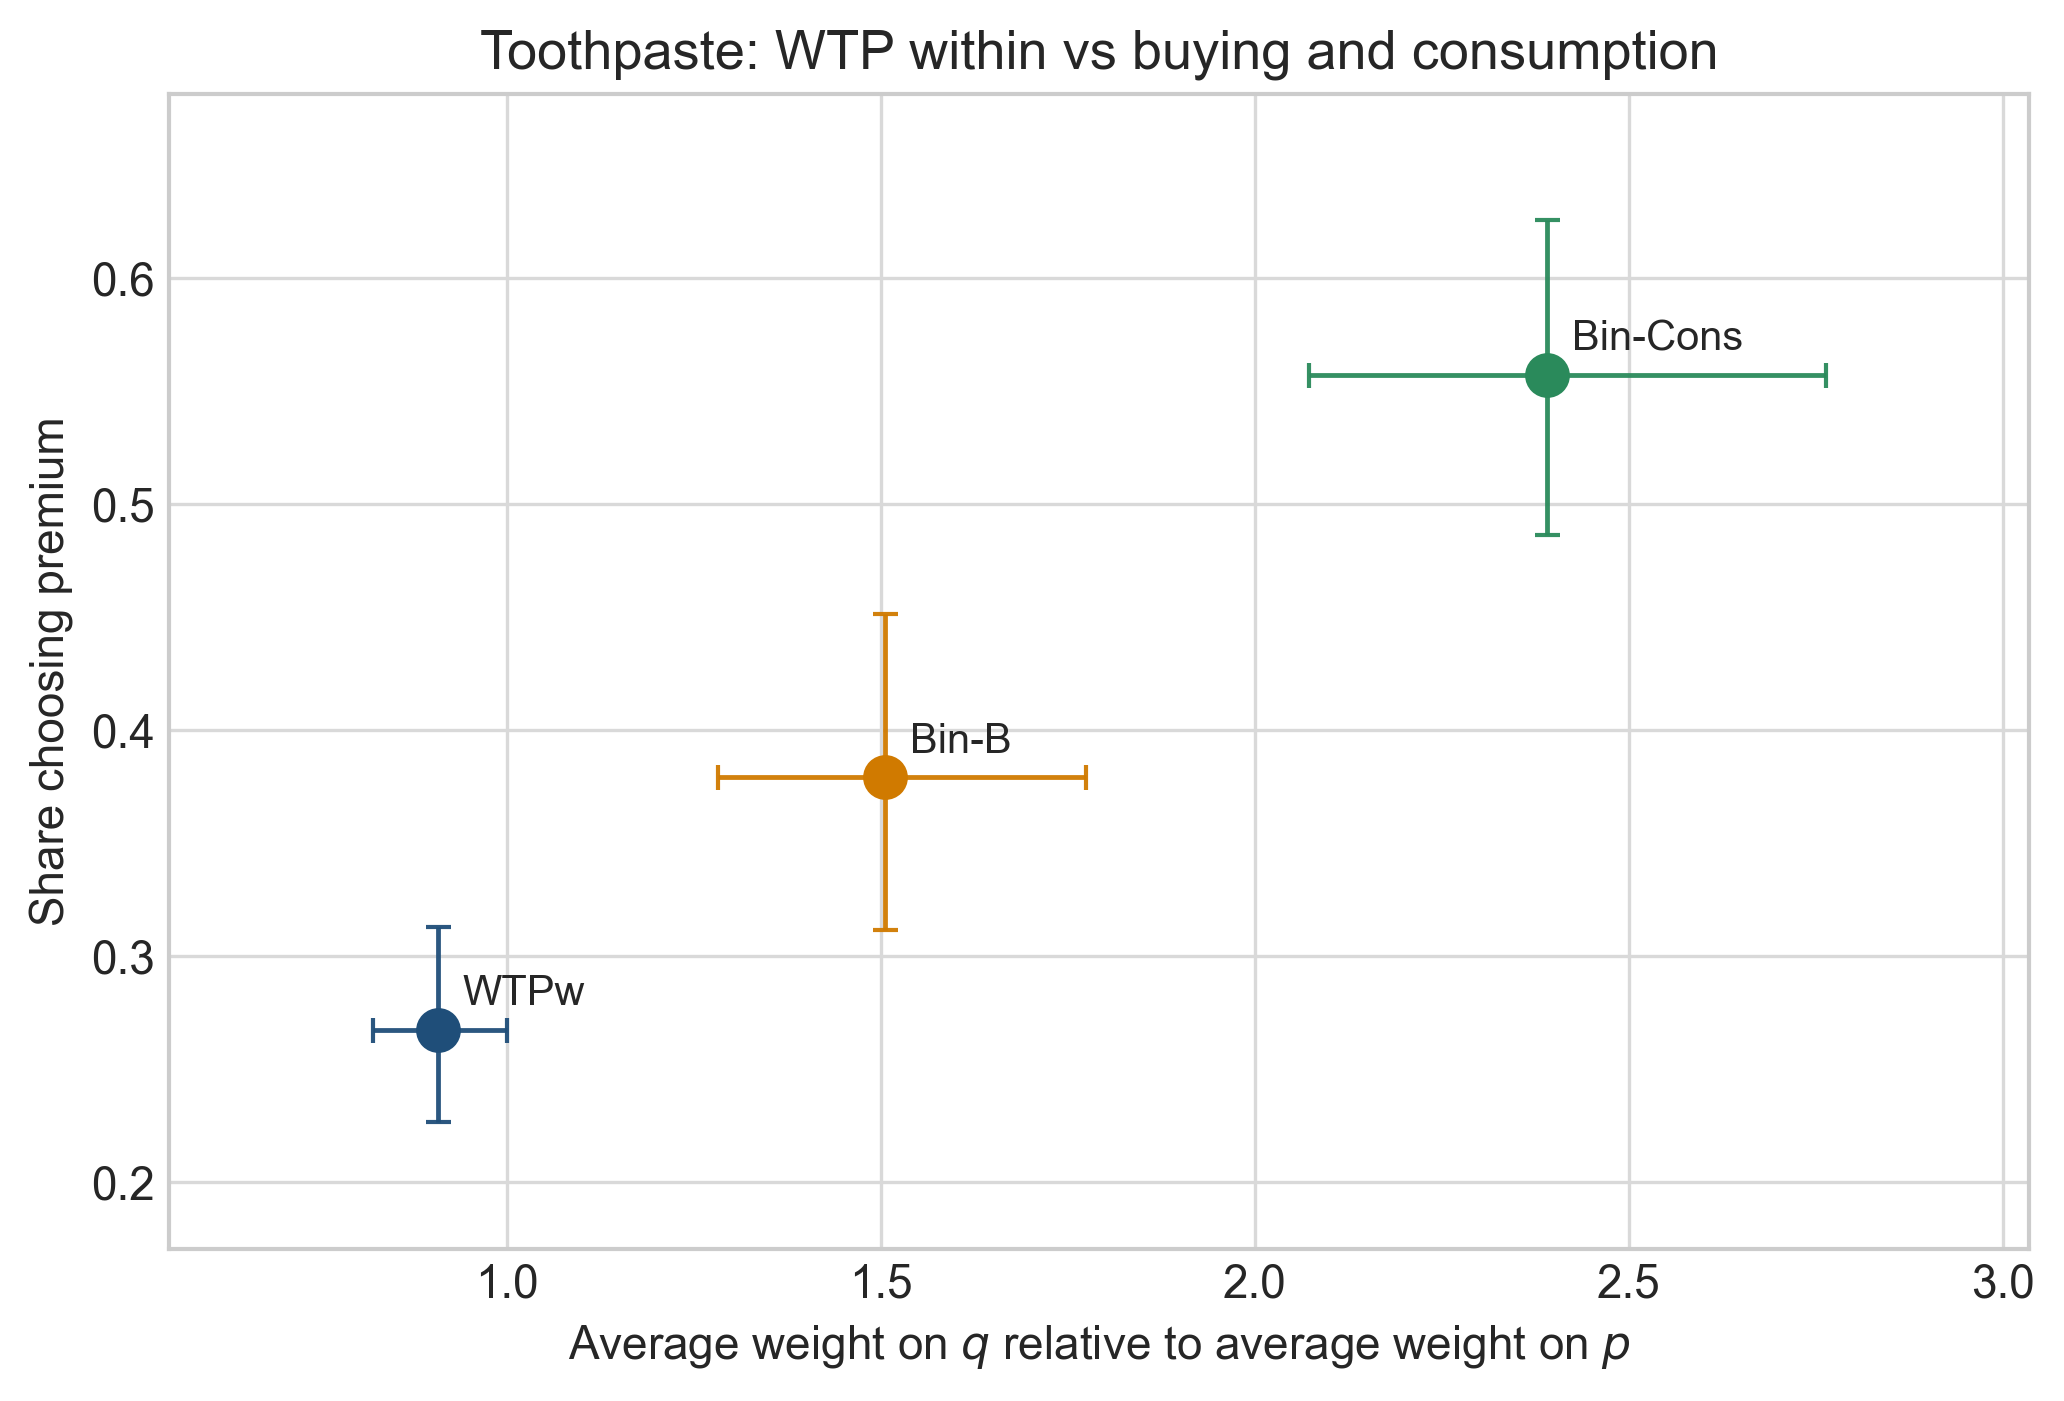
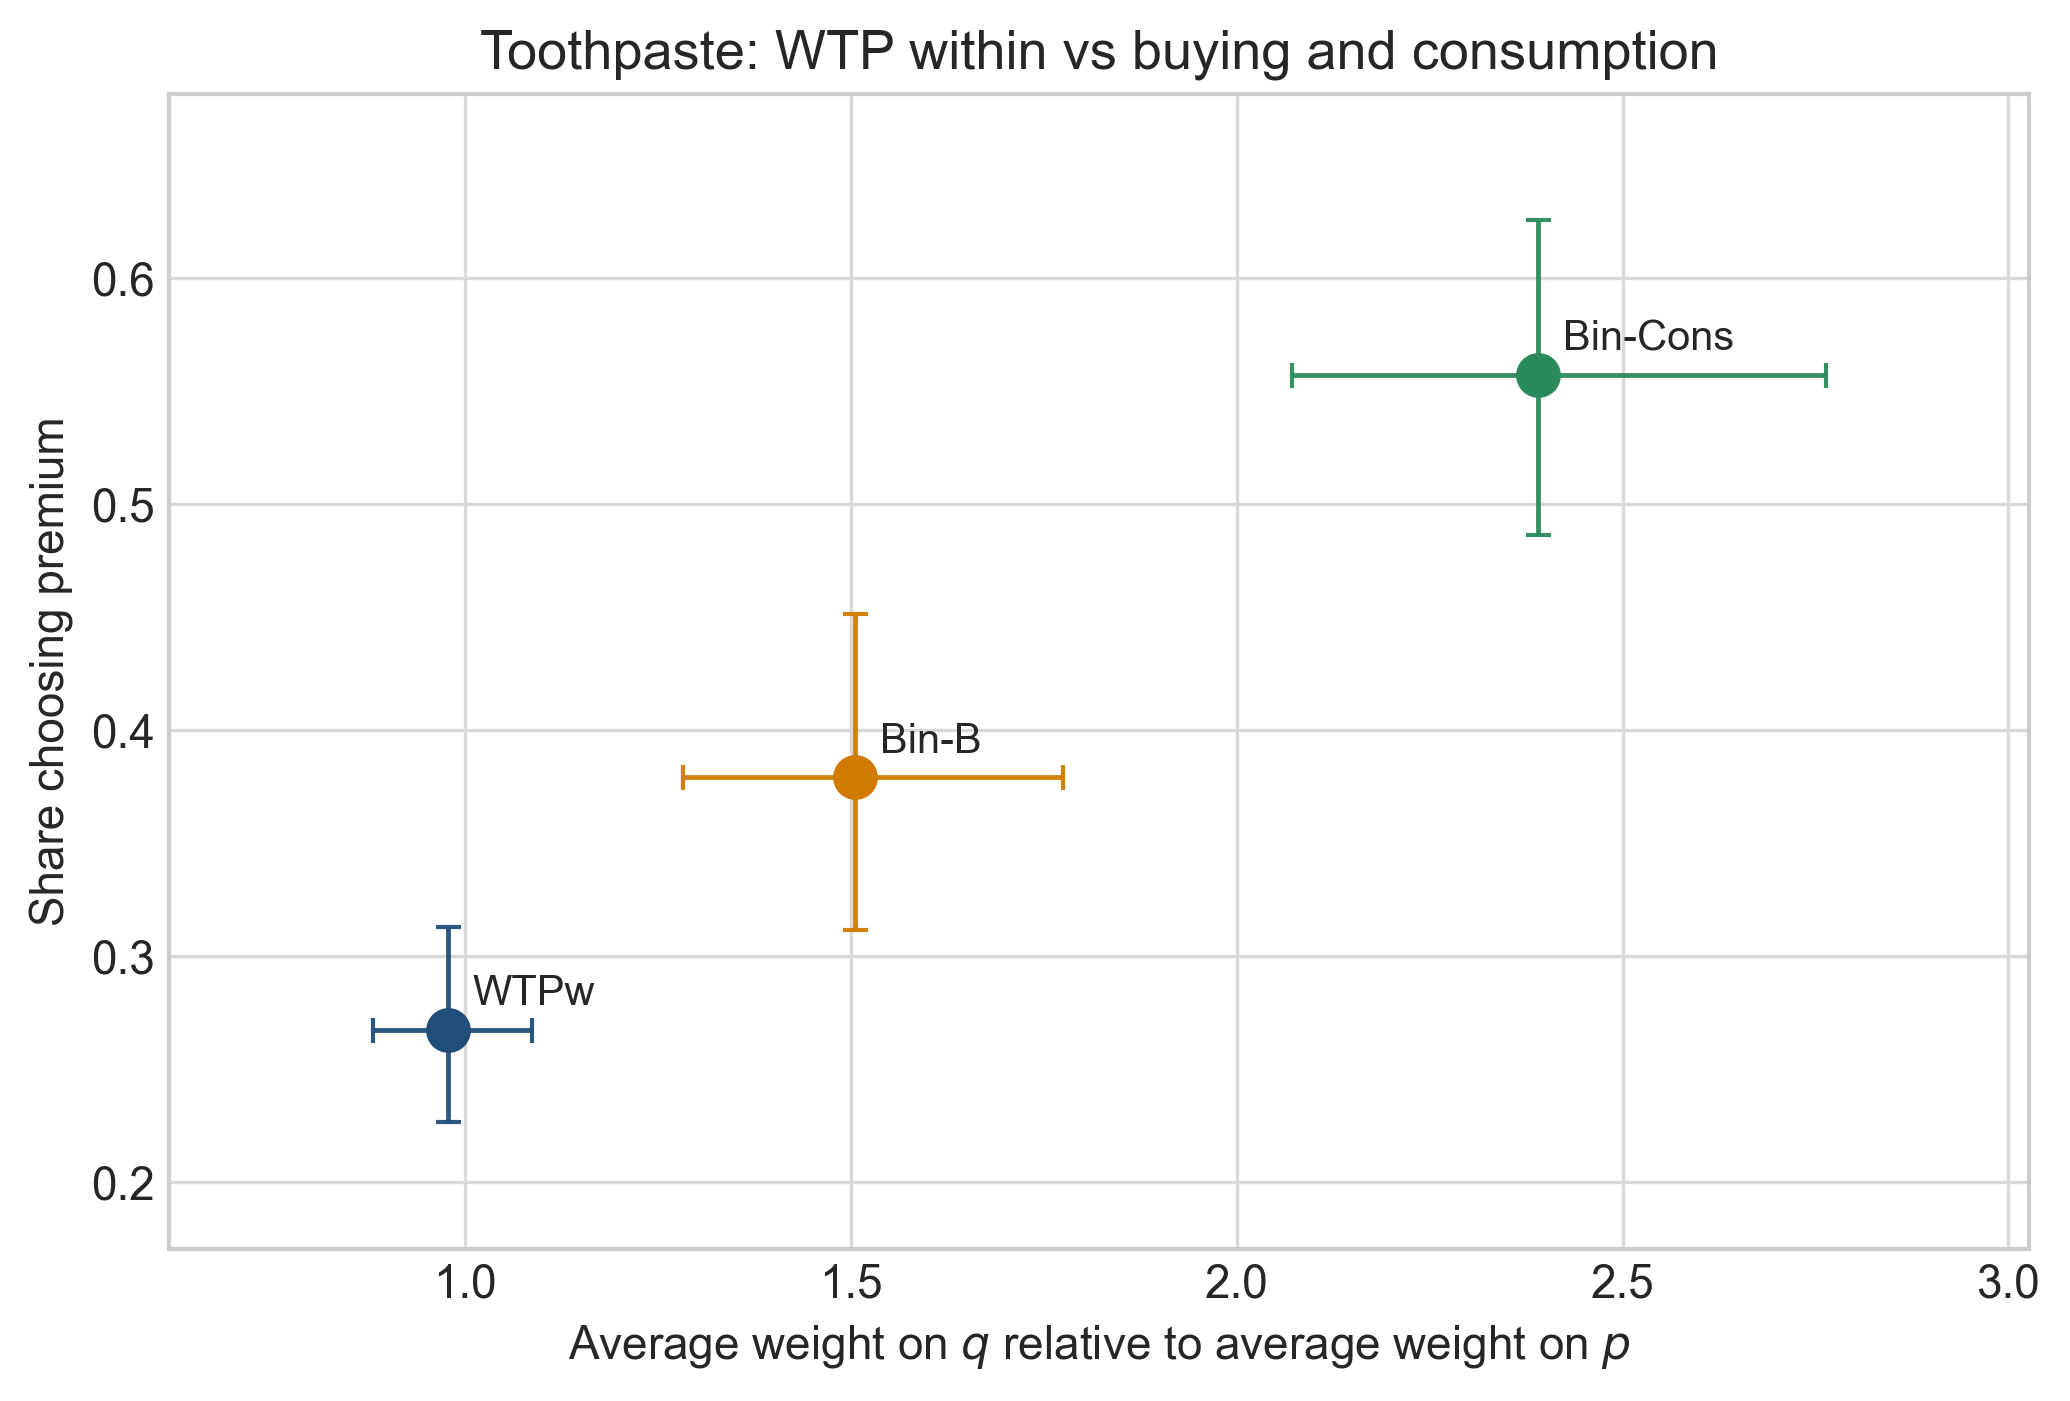
Quick commit

diff --git a/main.tex b/main.tex
@@ -155,11 +155,13 @@
 \end{frame}
 
 \begin{frame}{Attention and the gap}
-  Not more overall price focus -- under WTA, price reasoning shifts to reference price (LLM). ?
+  \hypertarget{main:wta_attention}{}
+  \hfill\hyperlink{app:wta_attention_ratio}{\beamerbutton{Weight-ratio version}}
+  \medskip
+  Higher premium valuations under WTA strong also coincide with a higher share of participants naming quality as the main consideration.
   \begin{center}
-    \includegraphics[width=0.76\textwidth]{figures/aaa.png}
+    \includegraphics[width=0.75\textwidth]{figures/wta_strong_cookies_quality_share_vs_price.png}
   \end{center}
-  \src{D3 Fig 6 (reference price), D1 Fig 6, D3 Table 7 (Gelbach: price weight $\approx 0$).}
 \end{frame}
 
 \begin{frame}{Combining self-reported and LLM}
@@ -198,10 +200,13 @@
   \end{columns}
 \end{frame}
 
-\begin{frame}{Attention and Premium Share by treatment}
+\begin{frame}{Quality attention and premium share by treatment}
+  \hypertarget{main:binary_attention}{}
+  \hfill\hyperlink{app:binary_attention_ratio}{\beamerbutton{Weight-ratio version}}
+  \medskip
   \begin{columns}
-    \column{0.5\textwidth}\centering Cookies\\[2pt]\includegraphics[width=\textwidth]{figures/binary_cookies_attention_vs_premium_share.png}
-    \column{0.5\textwidth}\centering Toothpaste\\[2pt]\includegraphics[width=\textwidth]{figures/binary_toothpaste_attention_vs_premium_share.png}
+    \column{0.5\textwidth}\centering Cookies\\[2pt]\includegraphics[width=\textwidth]{figures/binary_cookies_quality_share_vs_premium_share.png}
+    \column{0.5\textwidth}\centering Toothpaste\\[2pt]\includegraphics[width=\textwidth]{figures/binary_toothpaste_quality_share_vs_premium_share.png}
   \end{columns}
 
 \end{frame}
@@ -232,11 +237,14 @@
   \end{columns}
 \end{frame}
 
-\begin{frame}{Attention tracks take-up across tasks}
-  Across all tasks, more quality attention goes with higher premium take-up. ?
+\begin{frame}{Quality attention tracks take-up across tasks}
+  \hypertarget{main:cross_attention}{}
+  \hfill\hyperlink{app:cross_attention_ratio}{\beamerbutton{Weight-ratio version}}
+  \medskip
+  Across all tasks, a higher share naming quality as the main consideration goes with higher premium take-up. ?
   \begin{columns}
-    \column{0.5\textwidth}\centering Cookies\\[2pt]\includegraphics[width=\textwidth]{figures/cross_condition_cookies_attention_vs_premium_share.png}
-    \column{0.5\textwidth}\centering Toothpaste\\[2pt]\includegraphics[width=\textwidth]{figures/cross_condition_toothpaste_attention_vs_premium_share.png}
+    \column{0.5\textwidth}\centering Cookies\\[2pt]\includegraphics[width=\textwidth]{figures/cross_condition_cookies_quality_share_vs_premium_share.png}
+    \column{0.5\textwidth}\centering Toothpaste\\[2pt]\includegraphics[width=\textwidth]{figures/cross_condition_toothpaste_quality_share_vs_premium_share.png}
   \end{columns}
   \src{D3 Fig 2 (self-reported) and Fig 3 (LLM); D3 Table 4 (attention predicts take-up).}
 \end{frame}
@@ -378,6 +386,49 @@
   \begin{center}
     \includegraphics[height=0.72\textheight]{figures/manipulation_consumption.png}
   \end{center}
+\end{frame}
+
+\begin{frame}{Appendix: WTA attention, weight-ratio version}
+  \hypertarget{app:wta_attention_ratio}{}
+  \backbutton{main:wta_attention}
+  \vspace{0.2cm}
+  \begin{center}
+    \includegraphics[width=0.75\textwidth]{figures/wta_strong_cookies_ratio_vs_price.png}
+  \end{center}
+\end{frame}
+
+\begin{frame}{Appendix: Binary attention, weight-ratio version}
+  \hypertarget{app:binary_attention_ratio}{}
+  \backbutton{main:binary_attention}
+  \vspace{0.2cm}
+  \begin{columns}
+    \column{0.5\textwidth}
+    \centering
+    Cookies\\[2pt]
+    \includegraphics[width=\textwidth]{figures/binary_cookies_attention_vs_premium_share.png}
+
+    \column{0.5\textwidth}
+    \centering
+    Toothpaste\\[2pt]
+    \includegraphics[width=\textwidth]{figures/binary_toothpaste_attention_vs_premium_share.png}
+  \end{columns}
+\end{frame}
+
+\begin{frame}{Appendix: Cross-condition attention, weight-ratio version}
+  \hypertarget{app:cross_attention_ratio}{}
+  \backbutton{main:cross_attention}
+  \vspace{0.2cm}
+  \begin{columns}
+    \column{0.5\textwidth}
+    \centering
+    Cookies\\[2pt]
+    \includegraphics[width=\textwidth]{figures/cross_condition_cookies_attention_vs_premium_share.png}
+
+    \column{0.5\textwidth}
+    \centering
+    Toothpaste\\[2pt]
+    \includegraphics[width=\textwidth]{figures/cross_condition_toothpaste_attention_vs_premium_share.png}
+  \end{columns}
 \end{frame}
 
 \begin{frame}{LLM measure: fine-tuned model}